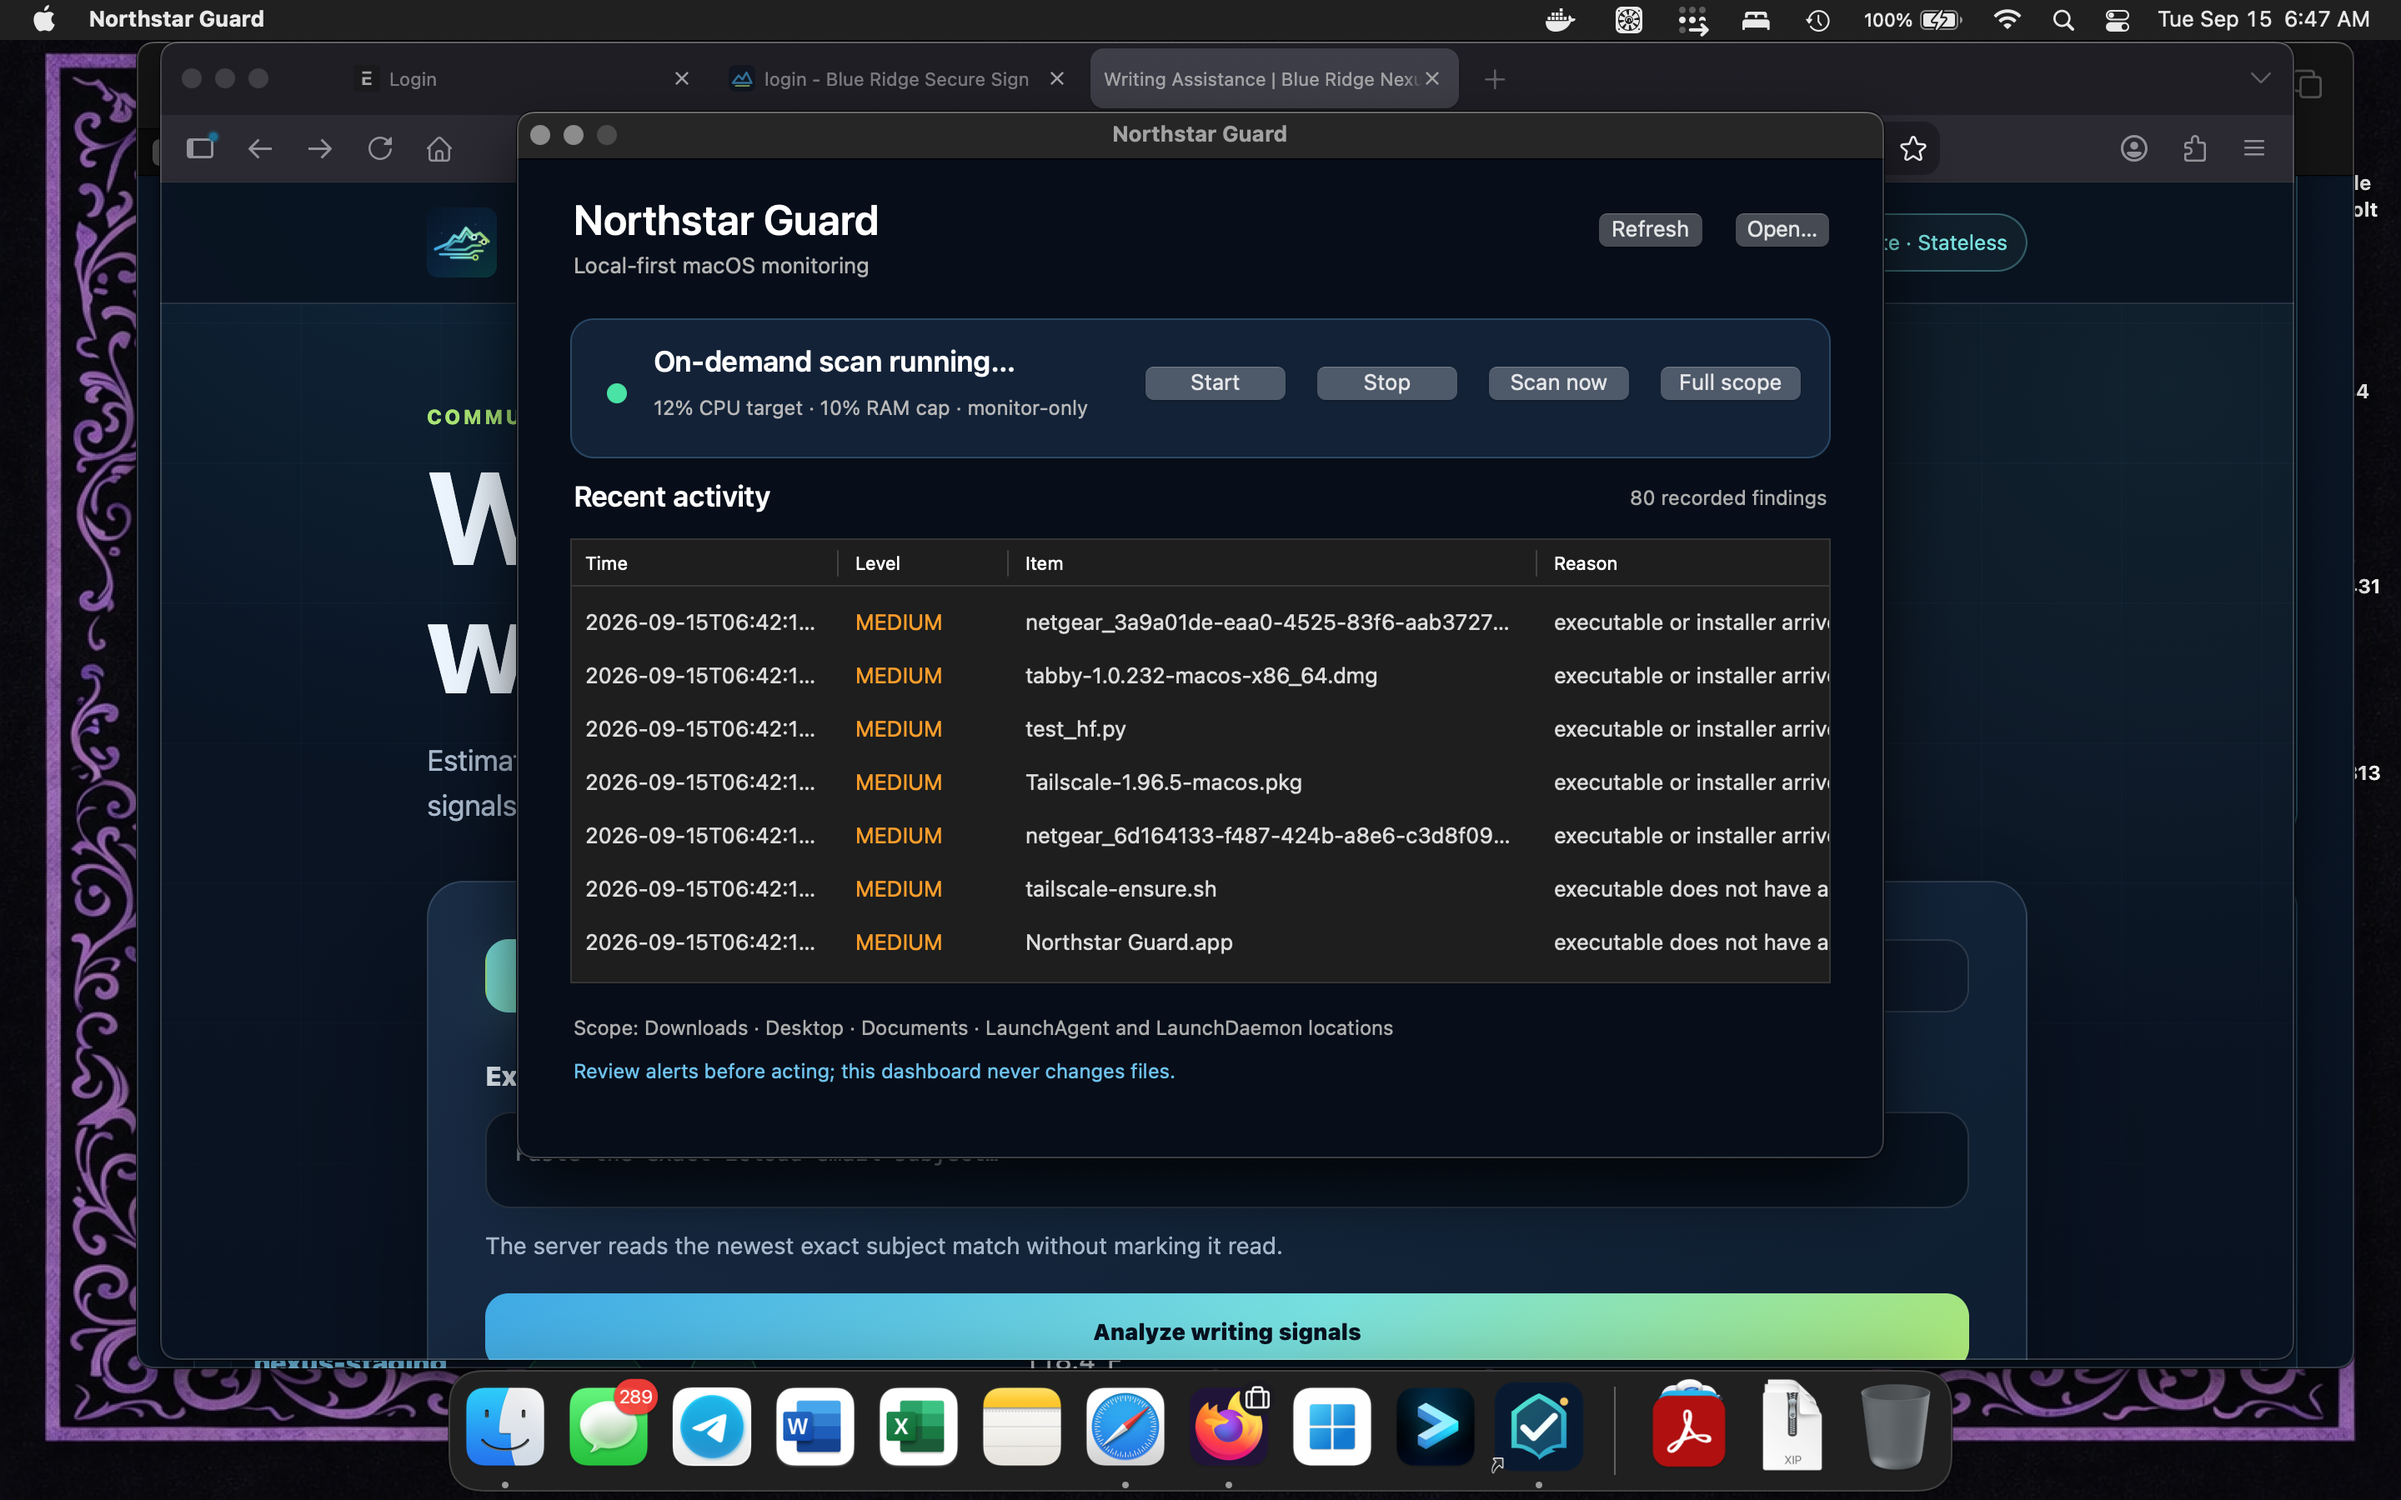
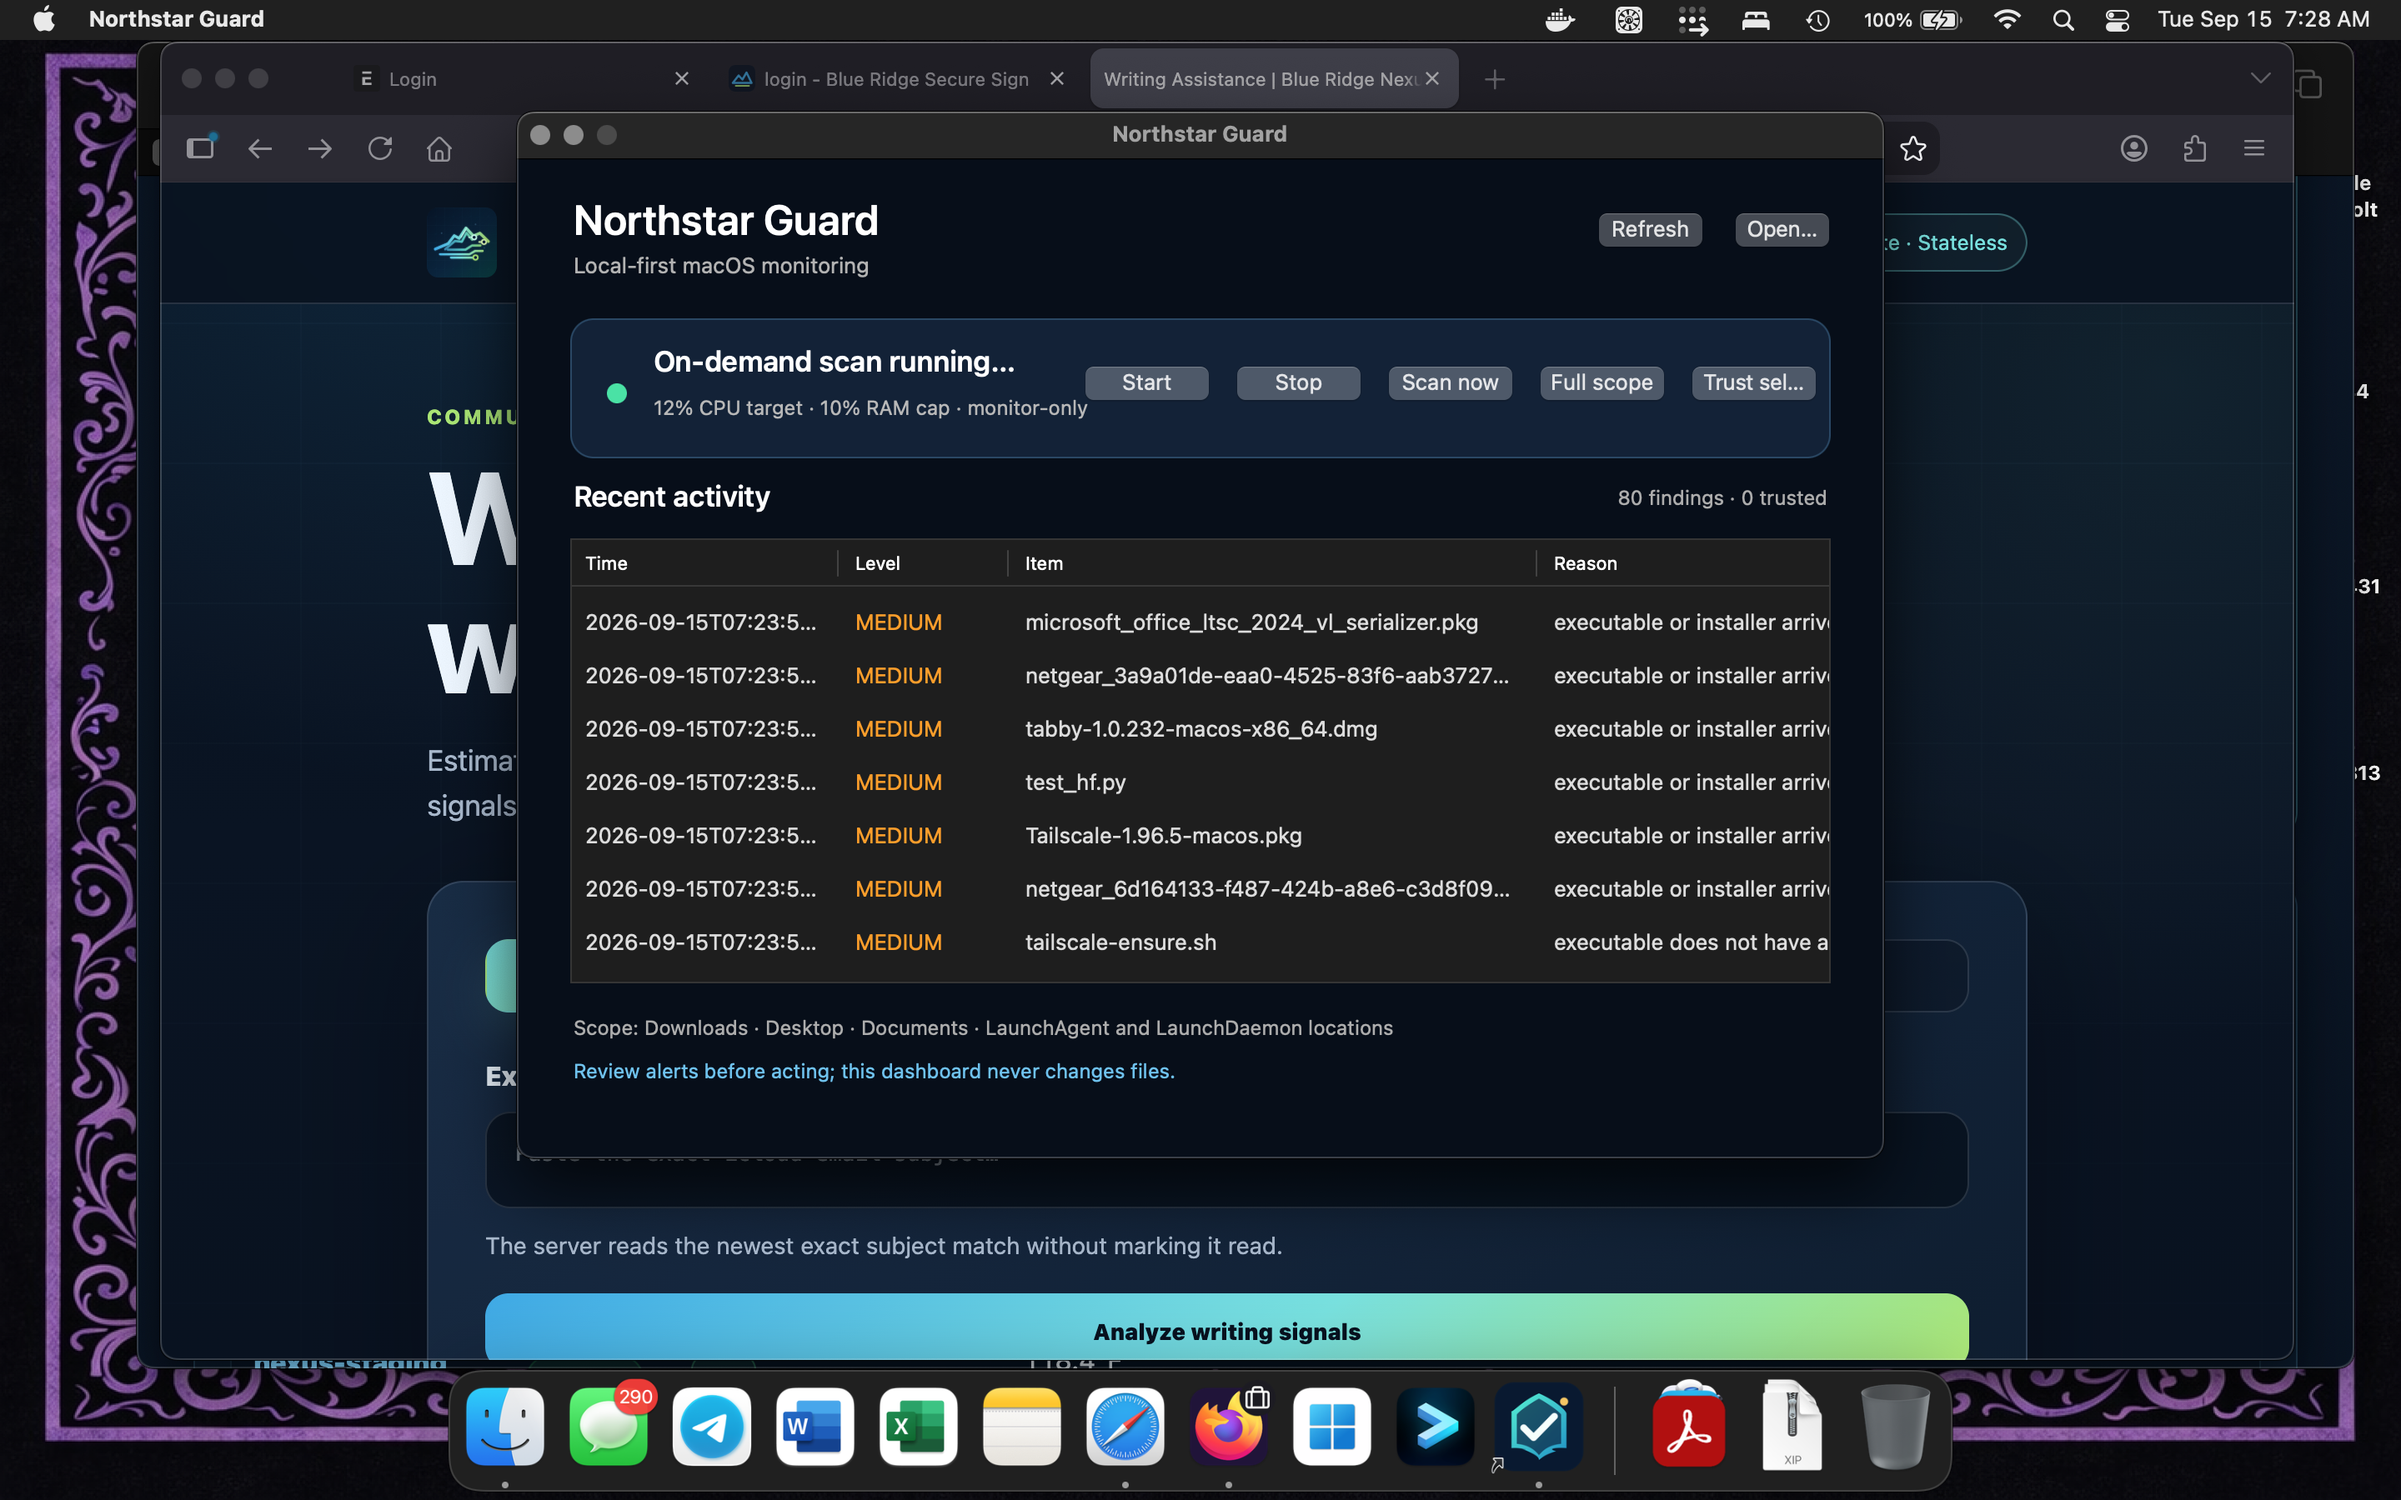
Replace Northstar Guard dashboard screenshot

diff --git a/macOS-Northstar-AV/Tools/dashboard_launcher.m b/macOS-Northstar-AV/Tools/dashboard_launcher.m
@@ -52,7 +52,7 @@
 - (void)stopMonitoring:(id)sender { [self runAgent:@"--stop"]; self.monitoringLabel.stringValue=@"Stopping monitoring…"; }
 - (void)scanFocused:(id)sender { NSTask *task=[NSTask new]; task.launchPath=[NSHomeDirectory() stringByAppendingPathComponent:@"Library/Application Support/NorthstarGuard/northstar-guard"]; task.arguments=@[@"--request",@"focused"]; @try {[task launch]; self.monitoringLabel.stringValue=@"Focused scan queued…";} @catch(NSException *e) {self.monitoringLabel.stringValue=@"Northstar Guard service is unavailable";} }
 - (void)scanFull:(id)sender { NSTask *task=[NSTask new]; task.launchPath=[NSHomeDirectory() stringByAppendingPathComponent:@"Library/Application Support/NorthstarGuard/northstar-guard"]; task.arguments=@[@"--request",@"full"]; @try {[task launch]; self.monitoringLabel.stringValue=@"Full-scope scan queued…";} @catch(NSException *e) {self.monitoringLabel.stringValue=@"Northstar Guard service is unavailable";} }
-- (void)trustSelected:(id)sender { NSInteger row=self.table.selectedRow; if(row<0 || row>=self.items.count){self.monitoringLabel.stringValue=@"Select a finding to mark it known-good"; return;} NSDictionary *finding=self.items[row]; NSString *path=finding[@"path"]; if(!path.length)return; NSMutableArray *items=[[self trustedItems] mutableCopy]; for(NSDictionary *entry in items) if([entry[@"path"] isEqual:path]){self.monitoringLabel.stringValue=@"Finding is already trusted"; return;} NSMutableDictionary *entry=[finding mutableCopy]; entry[@"trustedAt"]=[[NSDate date] descriptionWithLocale:nil]; [items addObject:entry]; NSDictionary *document=@{@"items":items}; NSData *data=[NSJSONSerialization dataWithJSONObject:document options:NSJSONWritingPrettyPrinted error:nil]; if([data writeToURL:[self trustedURL] options:NSDataWritingAtomic error:nil]){self.monitoringLabel.stringValue=@"Marked known-good"; [self reload];} else self.monitoringLabel.stringValue=@"Could not save trusted finding"; }
+- (void)trustSelected:(id)sender { NSInteger row=self.table.selectedRow; if(row<0 || row>=self.items.count){self.monitoringLabel.stringValue=@"Select a finding to mark it trusted"; return;} NSDictionary *finding=self.items[row]; NSString *path=finding[@"path"]; if(!path.length)return; NSMutableArray *items=[[self trustedItems] mutableCopy]; for(NSDictionary *entry in items) if([entry[@"path"] isEqual:path]){self.monitoringLabel.stringValue=@"Finding is already trusted"; return;} NSMutableDictionary *entry=[finding mutableCopy]; entry[@"trustedAt"]=[[NSDate date] descriptionWithLocale:nil]; [items addObject:entry]; NSDictionary *document=@{@"items":items}; NSData *data=[NSJSONSerialization dataWithJSONObject:document options:NSJSONWritingPrettyPrinted error:nil]; if([data writeToURL:[self trustedURL] options:NSDataWritingAtomic error:nil]){self.monitoringLabel.stringValue=@"Marked trusted"; [self reload];} else self.monitoringLabel.stringValue=@"Could not save trusted finding"; }
 - (NSInteger)numberOfRowsInTableView:(NSTableView *)table { return self.items.count; }
 - (NSView *)tableView:(NSTableView *)table viewForTableColumn:(NSTableColumn *)column row:(NSInteger)row { NSTextField *f=[NSTextField labelWithString:@""]; NSDictionary *i=self.items[row]; NSString *key=column.identifier; if([key isEqual:@"time"])f.stringValue=i[@"date"]?:@"—"; else if([key isEqual:@"severity"]){f.stringValue=i[@"severity"]?:@"—";f.textColor=[[f.stringValue uppercaseString]isEqual:@"HIGH"]?NSColor.systemRedColor:NSColor.systemOrangeColor;} else if([key isEqual:@"path"])f.stringValue=[i[@"path"] lastPathComponent]?:@"—"; else f.stringValue=[i[@"reasons"] componentsJoinedByString:@"; "]?:@"—"; f.lineBreakMode=NSLineBreakByTruncatingTail; return f; }
 @end

diff --git a/macOS-Northstar-AV/Sources/NorthstarGuard/main.m b/macOS-Northstar-AV/Sources/NorthstarGuard/main.m
@@ -47,7 +47,7 @@ static NSDictionary *scan(NSArray *roots, NSUInteger limit, NSString *mode) {
 
 static NSString *reportText(NSDictionary *r) {
     NSArray *findings=r[@"findings"],*roots=r[@"roots"]; NSString *title=[r[@"mode"] isEqual:@"full"]?@"Full configured-scope":@"Focused"; NSMutableString *s=[NSMutableString stringWithFormat:@"# Northstar Guard %@ Scan Report\n\n",title];
-    [s appendFormat:@"- **Generated:** `%@`\n- **Host:** `%@`\n- **Files examined:** `%@`\n- **Findings:** `%lu`\n- **Trusted known-good exclusions:** `%@`\n- **Oversize files skipped:** `%@` (over 512 MiB)\n- **Scope:** configured high-risk locations only; not the whole disk\n\n",now(),NSProcessInfo.processInfo.hostName,r[@"examined"],(unsigned long)findings.count,r[@"trustedCount"],r[@"skippedLarge"]];
+    [s appendFormat:@"- **Generated:** `%@`\n- **Host:** `%@`\n- **Files examined:** `%@`\n- **Findings:** `%lu`\n- **Trusted exclusions:** `%@`\n- **Oversize files skipped:** `%@` (over 512 MiB)\n- **Scope:** configured high-risk locations only; not the whole disk\n\n",now(),NSProcessInfo.processInfo.hostName,r[@"examined"],(unsigned long)findings.count,r[@"trustedCount"],r[@"skippedLarge"]];
     [s appendString:@"## Executive Summary\n\n**Executive summary source:** Local deterministic heuristic based solely on this report’s evidence.\n\n"];
     [s appendString:findings.count? [NSString stringWithFormat:@"The scan recorded %lu item(s) for review. Alerts are not malware verdicts; validate origin, signature, and purpose before acting.\n\n",(unsigned long)findings.count] : @"No files matched the current heuristic rules in the configured scope. This does not prove the Mac is malware-free because this is not a signature-based antivirus verdict.\n\n"];
     [s appendString:@"## Priorities Requiring Attention\n\n"]; if(!findings.count)[s appendString:@"- No heuristic alerts were recorded.\n"]; for(NSDictionary *f in findings)[s appendFormat:@"- **%@** — `%@`: %@\n",f[@"severity"],f[@"path"],[f[@"reasons"] componentsJoinedByString:@"; "]];

diff --git a/README.md b/README.md
@@ -75,7 +75,7 @@ The Intel script intentionally uses memory-only sleep. On a notebook, an empty b
 
 For a lightweight monitor focused on the locations most commonly used for downloads, documents, and persistence, see [`macOS-Northstar-AV/`](macOS-Northstar-AV/).
 
-Northstar Guard is a native macOS dashboard and per-user background monitor. It checks configured high-risk locations on a paced schedule, supports focused and full configured-scope scans, and writes timestamped Markdown reports. It also lets you mark independently verified alerts as trusted known-good items so they are excluded from future findings. It is a clean-room heuristic monitor—not a replacement for a commercial signature-based antivirus suite—and it never deletes, quarantines, or uploads files.
+Northstar Guard is a native macOS dashboard and per-user background monitor. It checks configured high-risk locations on a paced schedule, supports focused and full configured-scope scans, and writes timestamped Markdown reports. It also lets you mark independently verified alerts as trusted findings so they are excluded from future findings. It is a clean-room heuristic monitor—not a replacement for a commercial signature-based antivirus suite—and it never deletes, quarantines, or uploads files.
 
 Use [`install-northstar-guard.sh`](macOS-Northstar-AV/install-northstar-guard.sh) after reviewing it. The installer compiles the included source locally with Apple’s Command Line Tools and installs the dashboard plus its LaunchAgent.
 

diff --git a/macOS-Northstar-AV/README.md b/macOS-Northstar-AV/README.md
@@ -4,18 +4,16 @@ Northstar Guard is a lightweight, clean-room macOS monitor built with Objective-
 
 ![Northstar Guard dashboard](northstar-guard-dashboard.png)
 
-![Northstar Guard known-good findings](northstar-guard-trusted-known-good.png)
-
 ## What it does
 
 - Runs as a per-user macOS LaunchAgent, so monitoring continues when the dashboard is closed.
 - Provides native dashboard controls to start or stop monitoring and request a focused or full configured-scope scan.
 - Uses a 12% average CPU target, reduced process priority, and a 10% physical-memory high-water limit.
 - Creates timestamped Markdown reports with an executive summary, coverage, findings, recommendations, and data gaps.
-- Lets you select an alert and mark it as a trusted known-good item; trusted paths are excluded from future alerts and counted in reports.
+- Lets you select an alert and mark it as trusted; trusted paths are excluded from future alerts and counted in reports.
 - Never deletes, quarantines, or uploads scanned files.
 
-## Trusted known-good findings
+## Trusted findings
 
 Select a finding in the dashboard and choose **Trust selected** only after independently confirming that the item is expected and safe. Northstar Guard records the path, original finding context, and trust time in `~/Library/Application Support/NorthstarGuard/trusted-known-good.json`.
 
